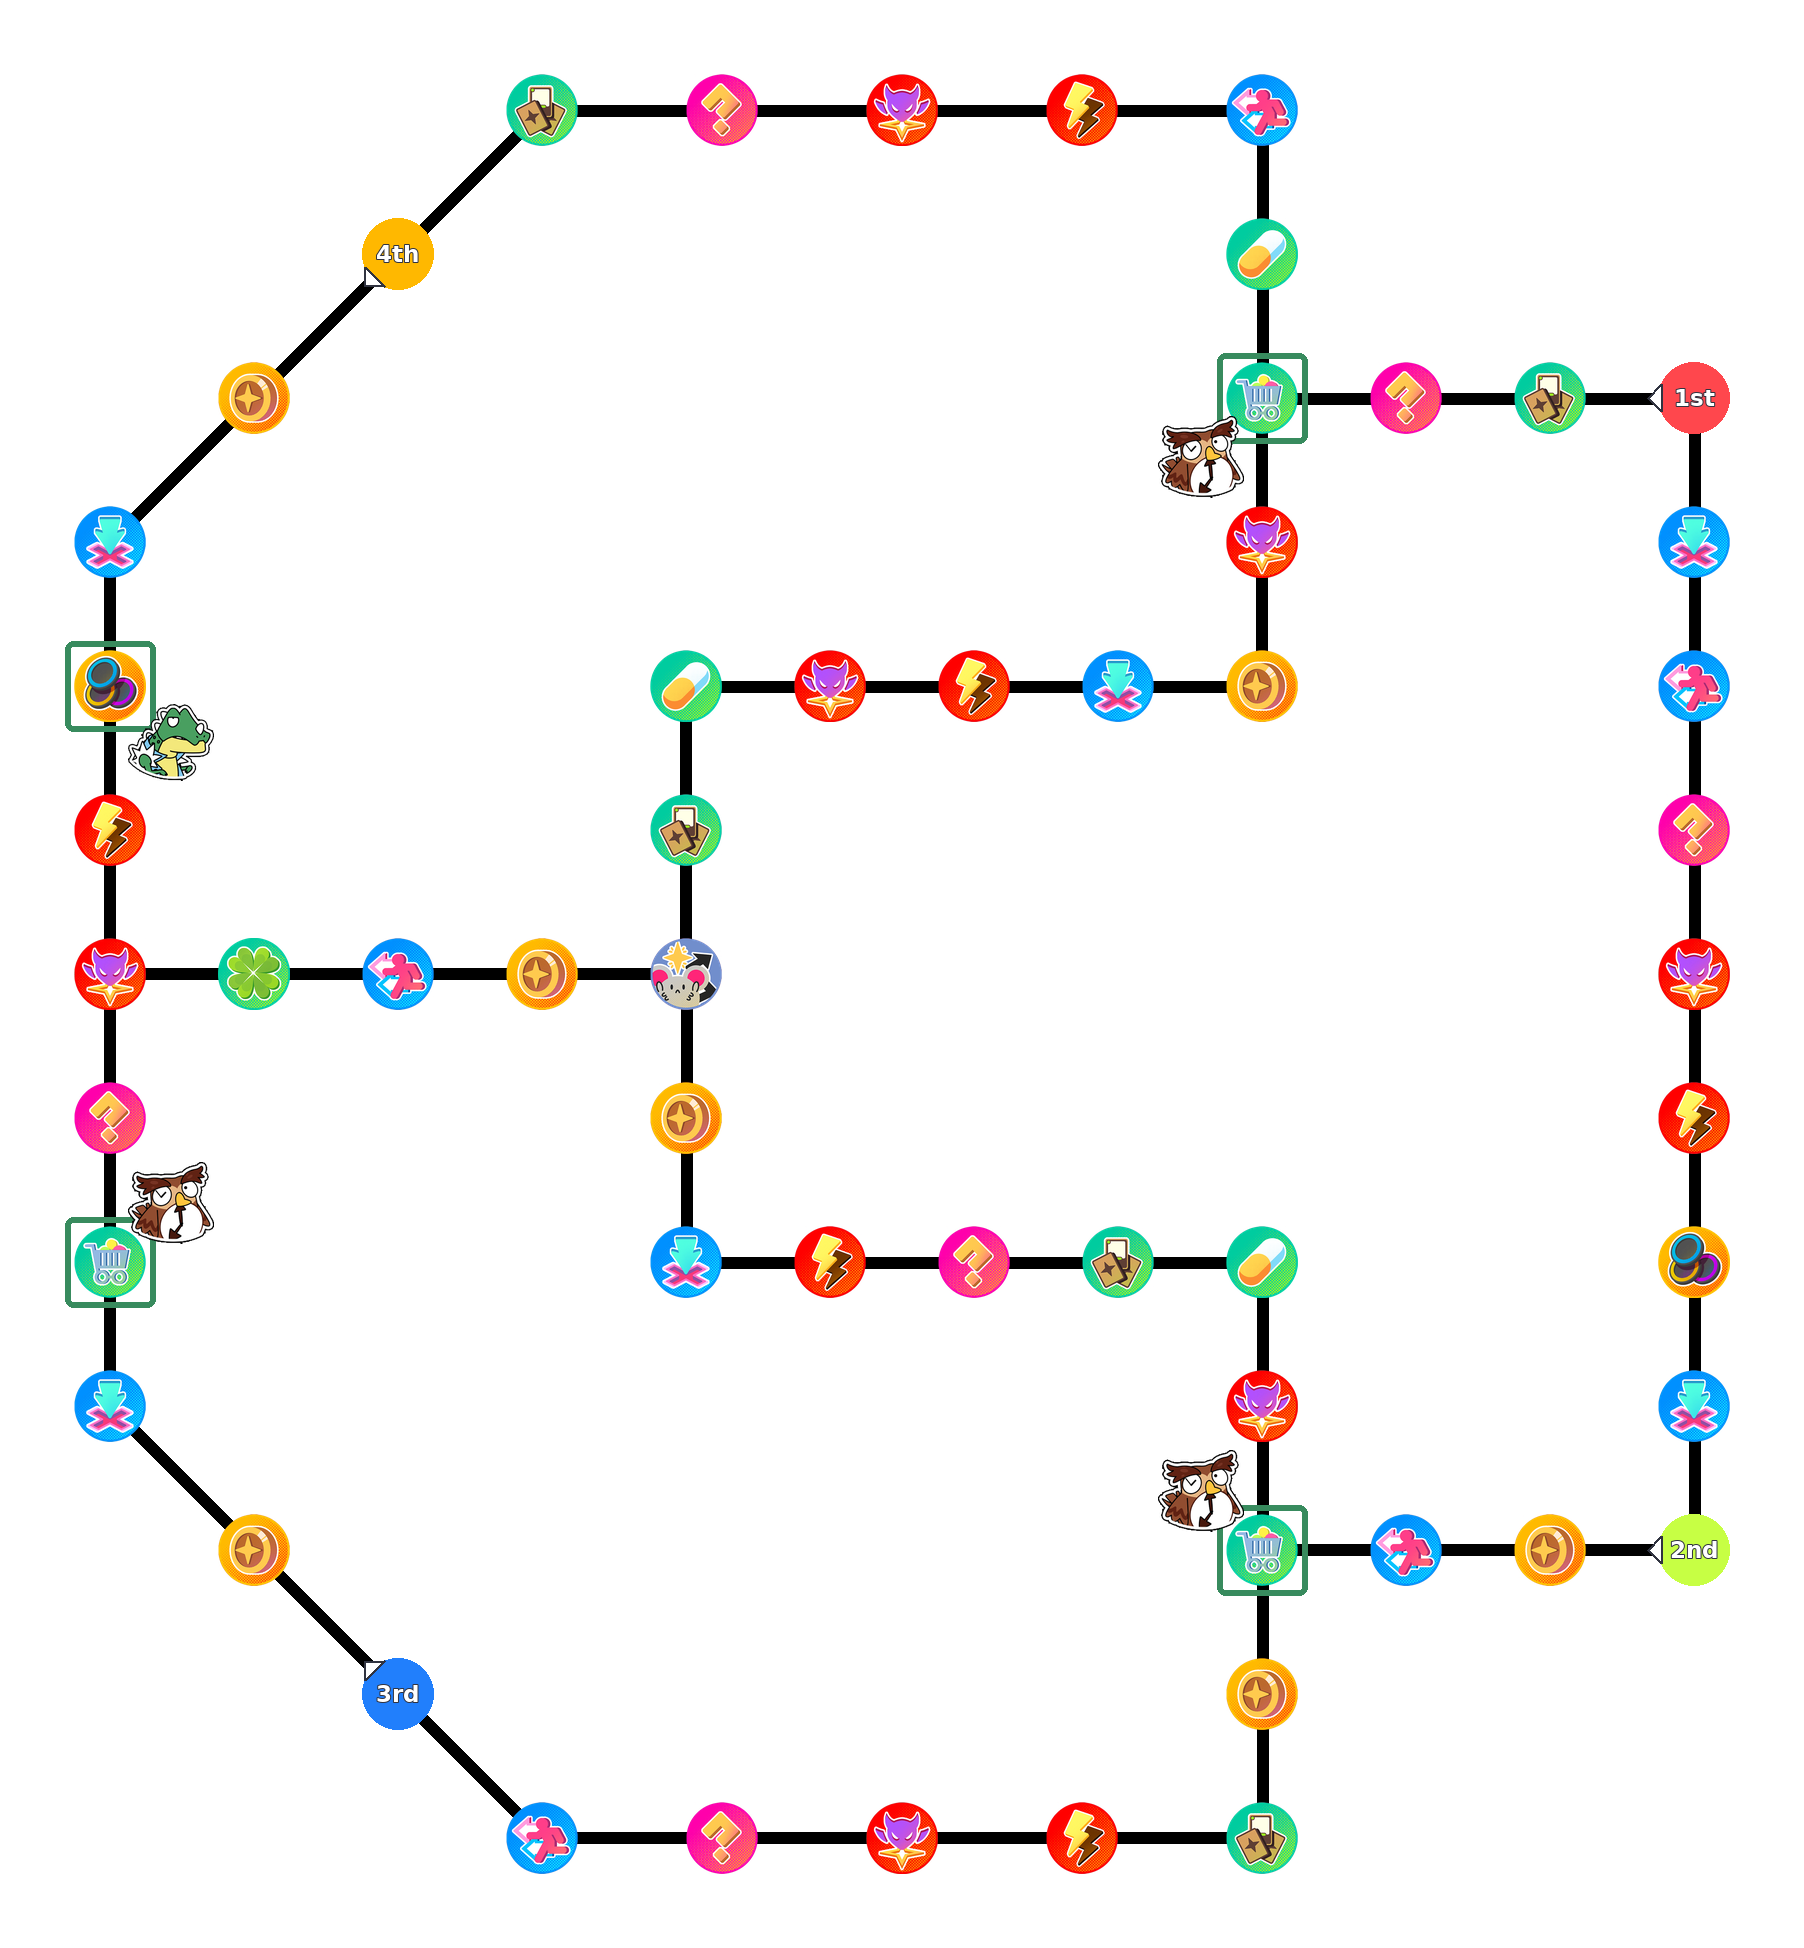
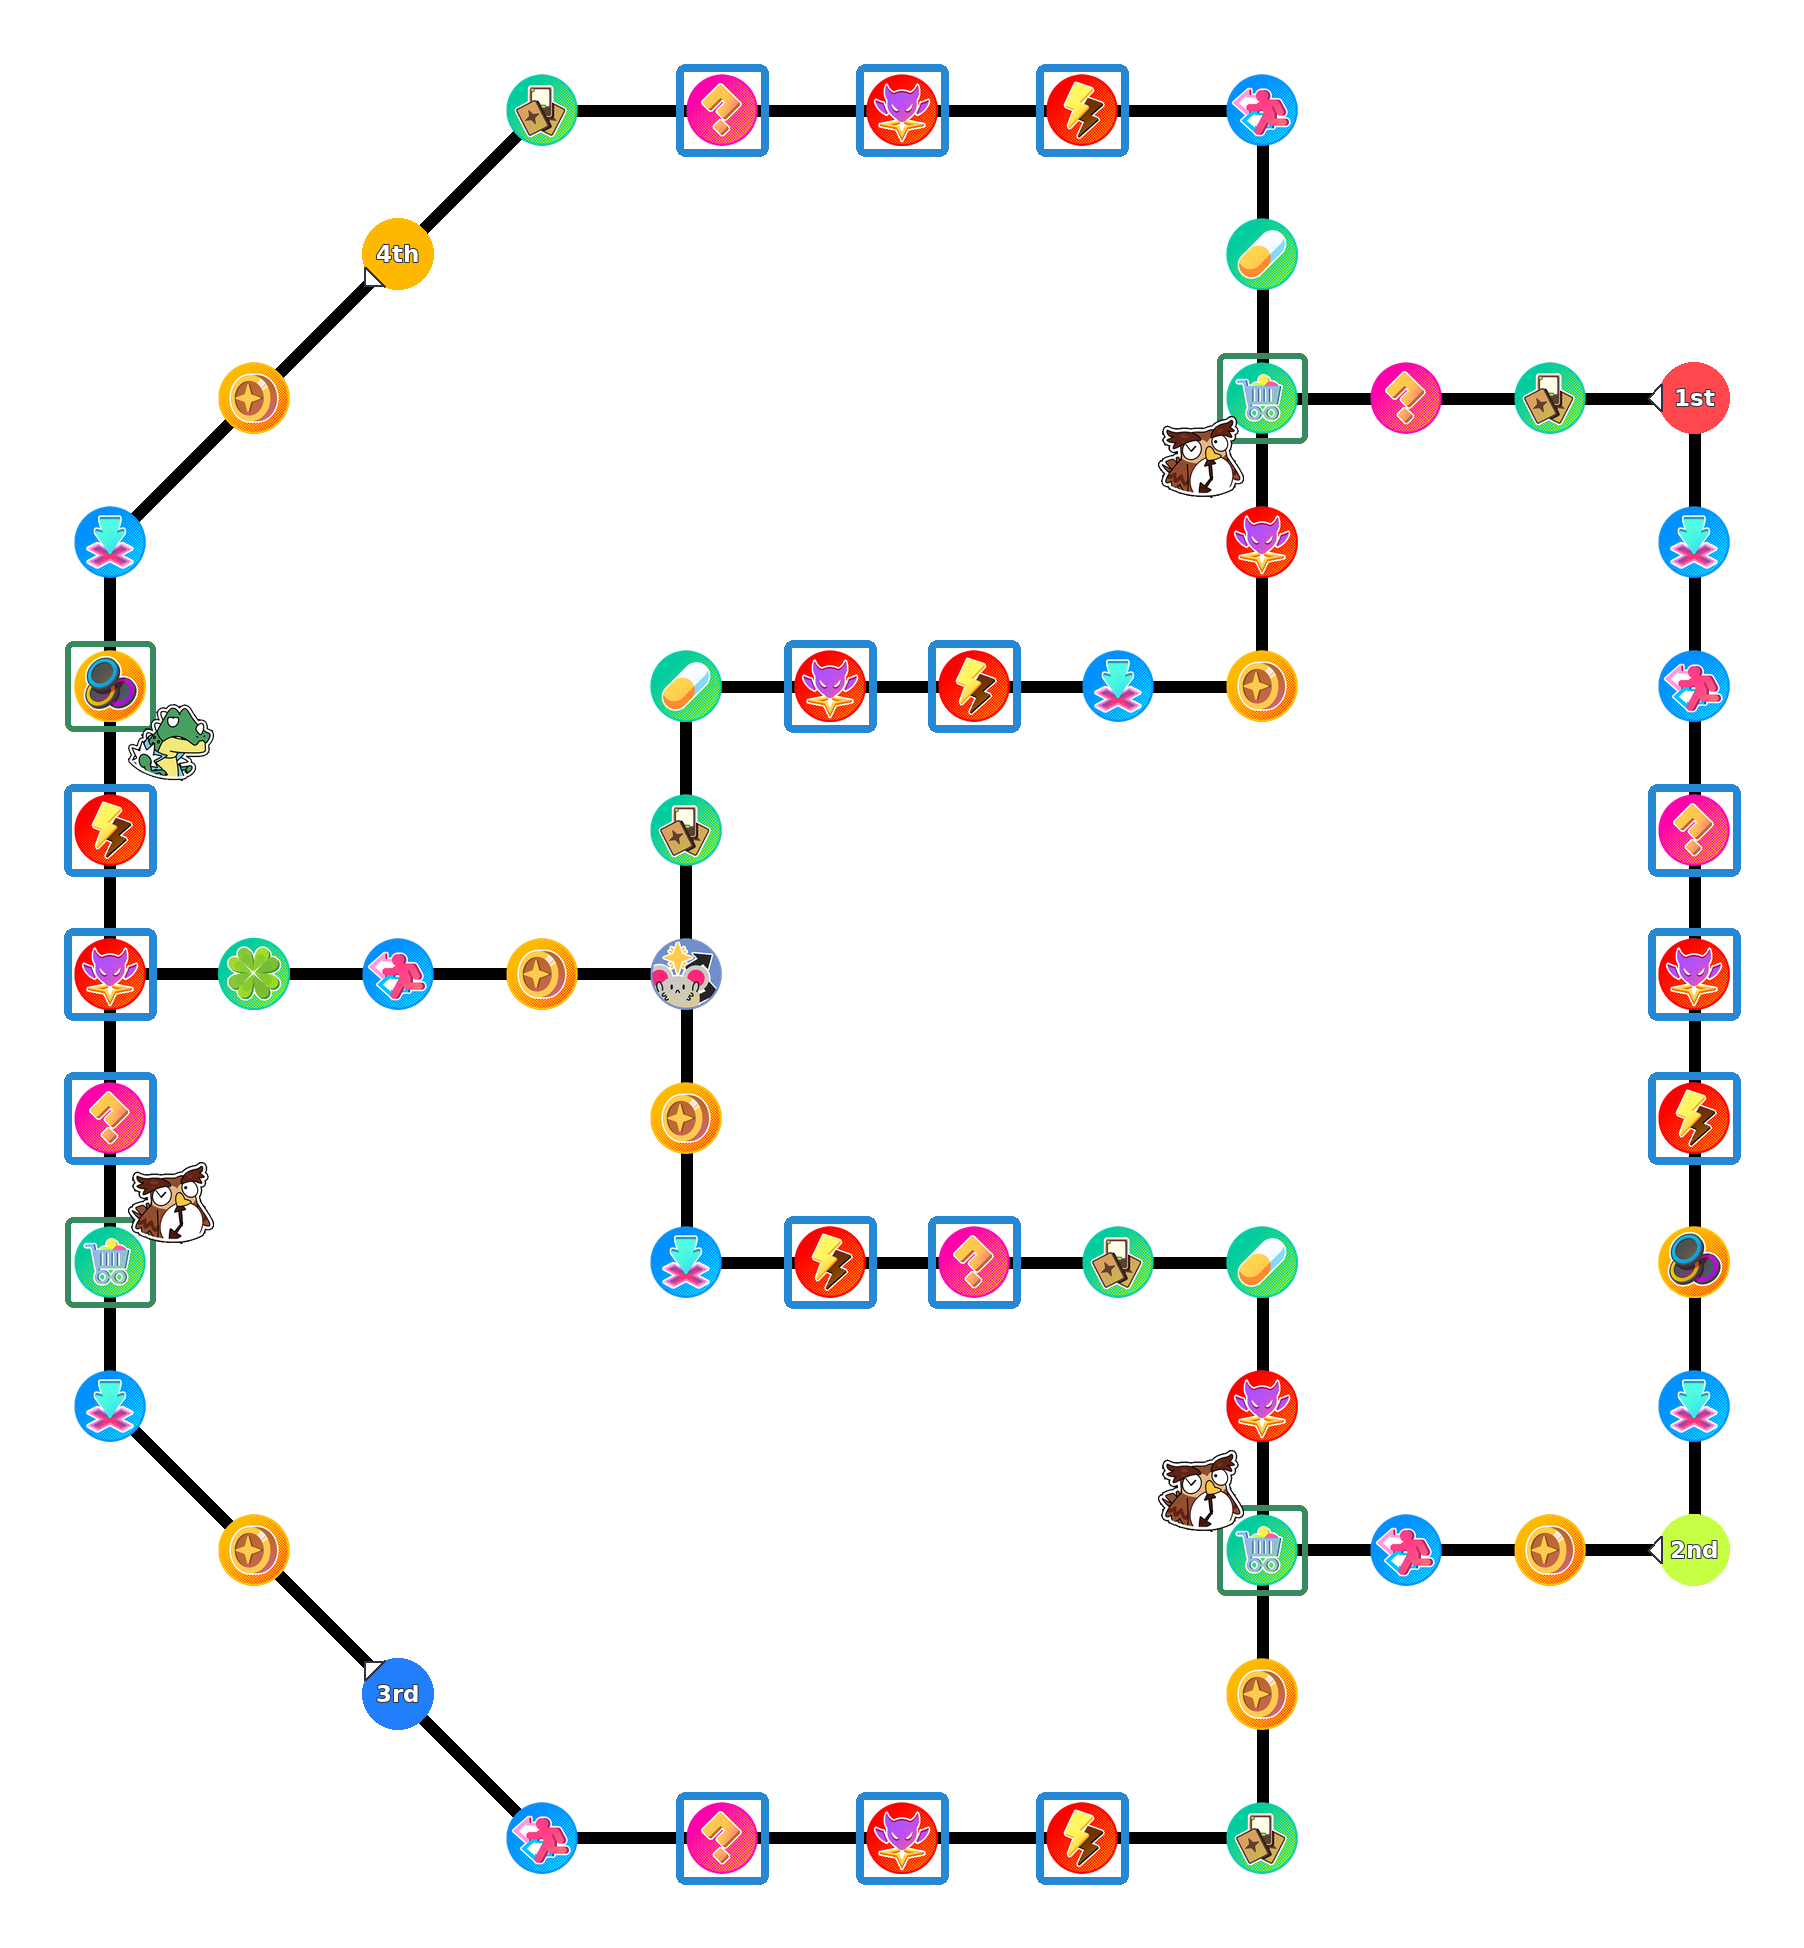
Restore approved blue building outlines to autumn map images

diff --git a/scripts/autumn_building_frames.py b/scripts/autumn_building_frames.py
@@ -1,0 +1,73 @@
+"""Restore the 16 approved blue building outlines without redrawing map contents."""
+from pathlib import Path
+import argparse
+from functools import lru_cache
+from PIL import Image, ImageChops
+
+ROOT = Path(__file__).resolve().parents[1]
+PRODUCTION = ROOT / 'docs/map-event-output/autumn-forest/production'
+BLUE = (36, 136, 212, 255)
+MAP = ROOT / 'images/Map/Layout_Autumn_Forest.png'
+EXPECTED_BLUE_PIXELS = {'Layout_Autumn_Forest.png': 42176, 'Autumn_Normal_01.png': 42176,
+                        'Autumn_Normal_03.png': 40136, 'Autumn_Normal_07.png': 36034,
+                        'Autumn_Normal_10.png': 42176}
+EVENTS = [ROOT / f'images/MapEvent/Autumn_Normal_{step:02}.png' for step in (1, 3, 7, 10)]
+
+@lru_cache(maxsize=1)
+def building_overlay():
+    base = Image.open(PRODUCTION / 'Autumn_Map_Base.png').convert('RGBA')
+    approved = Image.open(PRODUCTION / 'Autumn_Map_Buildings.png').convert('RGBA')
+    if base.size != approved.size:
+        raise ValueError('Approved maps have different dimensions')
+    overlay = Image.new('RGBA', base.size)
+    pixels = [(BLUE if before != after else (0, 0, 0, 0))
+              for before, after in zip(base.getdata(), approved.getdata())]
+    if any(after != BLUE for before, after in zip(base.getdata(), approved.getdata()) if before != after):
+        raise ValueError('Approved difference contains more than the blue outlines')
+    if sum(pixel[3] > 0 for pixel in pixels) != 42176:
+        raise ValueError('Approved building outline mask changed')
+    overlay.putdata(pixels)
+    return overlay
+
+def add_building_frames(image, unannotated=None):
+    image = image.convert('RGBA')
+    overlay = building_overlay()
+    if image.size != overlay.size:
+        raise ValueError('Map dimensions differ from the approved building map')
+    mask = overlay.getchannel('A')
+    if unannotated is not None:
+        difference = ImageChops.difference(image, unannotated.convert('RGBA'))
+        changed = difference.getchannel('R')
+        for channel in difference.split()[1:]:
+            changed = ImageChops.lighter(changed, channel)
+        unchanged = changed.point(lambda value: 0 if value else 255)
+        mask = ImageChops.multiply(mask, unchanged)
+    result = image.copy()
+    result.paste(overlay, (0, 0), mask)
+    return result
+
+def main():
+    parser = argparse.ArgumentParser(description=__doc__)
+    parser.add_argument('--check', action='store_true')
+    args = parser.parse_args()
+    base = Image.open(MAP).convert('RGBA')
+    # Existing event annotations win over the blue building outline.
+    reference = Image.open(PRODUCTION / 'Autumn_Map_Base.png').convert('RGBA')
+    results = [(MAP, base, add_building_frames(base))]
+    for path in EVENTS:
+        image = Image.open(path).convert('RGBA')
+        results.append((path, image, add_building_frames(image, reference)))
+    for path, before, after in results:
+        if args.check:
+            coverage = sum(alpha > 0 and pixel == BLUE for alpha, pixel in
+                           zip(building_overlay().getchannel('A').getdata(), before.getdata()))
+            if coverage != EXPECTED_BLUE_PIXELS[path.name]:
+                raise ValueError(f'Building outline coverage changed: {path}: {coverage}')
+            if any(channel.getbbox() for channel in ImageChops.difference(before, after).split()):
+                raise ValueError(f'Missing building outlines: {path}')
+        else:
+            after.save(path)
+    print('Validated 16 approved building outlines on the base map and four event maps')
+
+if __name__ == '__main__':
+    main()

diff --git a/tests/map_event_output/test_autumn_buildings.py b/tests/map_event_output/test_autumn_buildings.py
@@ -1,0 +1,42 @@
+import importlib.util
+from pathlib import Path
+import unittest
+from PIL import Image, ImageChops
+
+ROOT = Path(__file__).resolve().parents[2]
+SPEC = importlib.util.spec_from_file_location('autumn_buildings', ROOT / 'scripts/autumn_building_frames.py')
+FRAMES = importlib.util.module_from_spec(SPEC)
+SPEC.loader.exec_module(FRAMES)
+
+class AutumnBuildingFramesTests(unittest.TestCase):
+    def test_approved_sixteen_frames_are_present_in_published_maps(self):
+        overlay = FRAMES.building_overlay()
+        nodes = ['O31','O32','O33','I04','I05','O25','O04','O24','O05','O23','O06','I11','I12','O17','O16','O15']
+        import json
+        topology = json.loads((FRAMES.PRODUCTION / 'data/topology.json').read_text())
+        for node in topology['nodes']:
+            if node['id'] not in nodes:
+                continue
+            x,y = node['x'],node['y']
+            self.assertEqual(sum(pixel[3] > 0 for pixel in overlay.crop((x-46,y-46,x+47,y+47)).getdata()), 2636)
+        for path in [FRAMES.MAP] + FRAMES.EVENTS:
+            image = Image.open(path).convert('RGBA')
+            self.assertEqual(image.size, overlay.size)
+            count = sum(alpha > 0 and pixel == FRAMES.BLUE for alpha,pixel in zip(overlay.getchannel('A').getdata(),image.getdata()))
+            self.assertEqual(count, FRAMES.EXPECTED_BLUE_PIXELS[path.name], path.name)
+
+    def test_restore_changes_only_the_approved_outline_pixels(self):
+        image = Image.open(FRAMES.PRODUCTION / 'Autumn_Map_Base.png').convert('RGBA')
+        result = FRAMES.add_building_frames(image)
+        expected = Image.open(FRAMES.PRODUCTION / 'Autumn_Map_Buildings.png').convert('RGBA')
+        self.assertTrue(all(channel.getbbox() is None for channel in ImageChops.difference(result,expected).split()))
+        self.assertTrue(all(channel.getbbox() is None for channel in ImageChops.difference(result,FRAMES.add_building_frames(result)).split()))
+
+    def test_existing_event_annotation_wins_over_blue_outline(self):
+        base = Image.open(FRAMES.PRODUCTION / 'Autumn_Map_Base.png').convert('RGBA')
+        image = base.copy()
+        point = (722,64)
+        image.putpixel(point,(0,200,0,255))
+        restored = FRAMES.add_building_frames(image,base)
+        self.assertEqual(restored.getpixel(point),(0,200,0,255))
+        self.assertEqual(restored.getpixel((723,64)),FRAMES.BLUE)

diff --git a/scripts/render-autumn-map.py b/scripts/render-autumn-map.py
@@ -1,6 +1,7 @@
 from pathlib import Path
 import json,math,io,csv
 from PIL import Image,ImageDraw,ImageFont
+from autumn_building_frames import add_building_frames
 R=Path(__file__).resolve().parents[1]
 D=R/'docs/map-event-output/autumn-forest';A=D/'assets'
 with (R/'csv/monster_stats.csv').open(encoding='utf-8-sig',newline='') as source:
@@ -23,7 +24,7 @@ def render(review=False):
             idx=outer.index(n['id']);step=-1 if t in ['1st','4th'] else 1;other=lookup[outer[(idx+step)%len(outer)]];dx,dy=other['x']-x,other['y']-y;l=math.hypot(dx,dy);u,v=dx/l,dy/l;pts=[(x+u*32.574-v*13.225,y+v*32.574+u*13.225),(x+u*32.574+v*13.225,y+v*32.574-u*13.225),(x+u*45.799,y+v*45.799)];d.polygon(pts,fill='white');d.line(pts+[pts[0]],fill='#303340',width=2,joint='curve')
         else:im.alpha_composite(Image.open(A/f'UT_Platform_{t}.png').convert('RGBA').resize((72,72),Image.Resampling.LANCZOS),(x-36,y-36))
         if review:d.text((x,y+48),n['id'],font=small,anchor='mt',fill='#303340',stroke_width=2,stroke_fill='white')
-    return im
+    return add_building_frames(im)
 base=render();save_png(base,R/'images/Map/Layout_Autumn_Forest.png');save_png(render(True),D/'Layout_Autumn_Forest_review.png')
 spawns={}
 with (P/'event_spawn_locations.csv').open(encoding='utf-8-sig',newline='') as source:

diff --git a/docs/development-handoff.md b/docs/development-handoff.md
@@ -2,6 +2,12 @@
 
 Last updated: 2026-11-15 (Japan)
 
+## 2026-11-15：秋幻の森の建築可能マスの青枠復元
+
+- 利用者指摘の青枠消失を確認。現行render-autumn-map.pyが青枠を描かず基本図とイベント図を生成していた。承認済みproduction/Autumn_Map_Base.pngとAutumn_Map_Buildings.pngの差分は16枠・42,176画素、すべてRGBA(36,136,212,255)。その差分だけを復元マスクとして使用する。
+- 基本図とイベント図4枚へ青枠を復元。イベント画像が承認済み未注釈図と異なる画素（緑枠・モンスター等）は優先して保持する。差し替え前後の全画素を比較し、青枠マスク外は完全一致。I18の植物建築ショップ、最新進捗7/10の配置・画像寸法・透明度は維持。
+- scripts/autumn_building_frames.pyで再適用／--check。render-autumn-map.pyも同じ枠をイベント注釈より先に描き、再生成時の消失を防ぐ。元の承認済み図は変更しない。枠の全数・色・公開図の画素数、注釈保護とマスク外不変を回帰に追加。最終CIは同PR参照。
+
 ## 2026-11-15：秋幻ミッション補完・蒼鯉の固有スタック
 
 - 基準main `5d2db84`（#278）。提供スクショからフクロウ3体撃破（強化チップ＋植物建築カード）と、カリバーンの植物建築6/10個を正本ミッション・07/08フォールバックへ追加。報酬対象はHP最少キャラ／最後の達成者なので自動割当しない。聖剣の加護（攻撃+2/被ダメ-2）はマップ条件の手動toggle、英雄は状態保持・説明のみで範囲ダメージを推測しない。加護の1ラウンド満了は手動解除。
